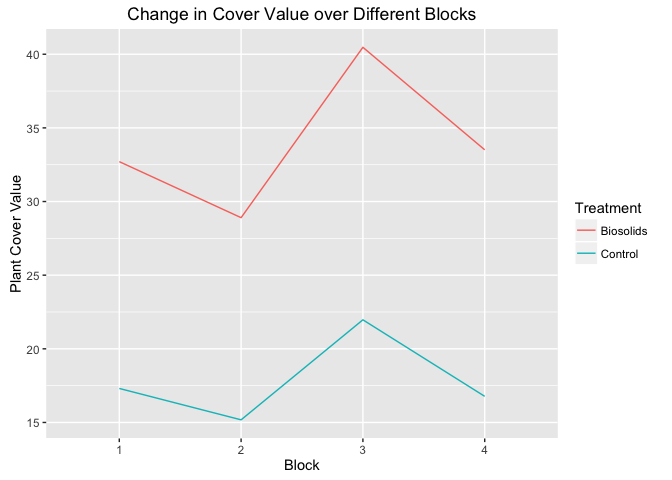
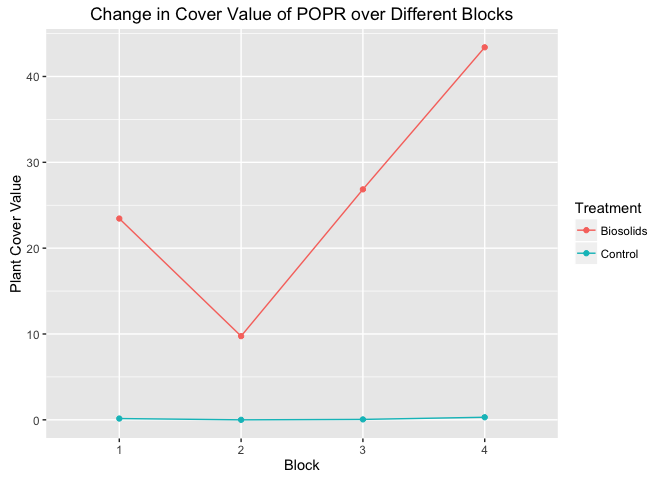
update plots

diff --git a/Report/SecondDraft/SecondDraft.md b/Report/SecondDraft/SecondDraft.md
@@ -2,42 +2,41 @@
 
 This report examines the effectiveness of biosolids, a new kind of
 fertilizer that potentially enhances soil activity by providing food
-source through microbial activities. In particular, we compare the
-change in Mean Weight Diameter (MWD), a parameter measuring soil
-stability, and the change in cover value, a criterion for abundance of
-plant species between observations under biosolids and control. The
-impact of biosolids on soil stability is analyzed by a mixed effect
-model. The effect on abundance of plant species is addressed by linear
-regression. We also calculate the correlation between MWD and cover
-value to examine if they move in the same direction. We find strong
-evidence to support the hypothesis that biosolids significantly
-increases soil productivity and coverage of certain plant species. We
-also find that MWD and cover value are positively correlated.
+sources through microbial activities. In particular, we compare the
+magnitude of Mean Weight Diameter (MWD), a parameter measuring soil
+stability, with and without biosolids application. We also compare the
+magnitude of cover value, a criterion for spread of plant species,
+between observations under biosolids and control. The impact of
+biosolids on soil stability is analyzed by a mixed effect model. The
+effect on spread of plant species is addressed by linear regression. The
+correlation between MWD and cover value is also examined. We find strong
+evidence that biosolids significantly increases soil productivity and
+coverage of certain plant species. We also find that MWD and cover value
+are positively correlated.
 
 #### 1. Introduction
 
-Soil health and productivity is an important issue affecting our daily
-lives and social well-being. Our client, Miss Emma Avery, is completing
-her Master of Soil Science thesis which investigates the long term
-impact of biosolids application on grassland plant communities and soil
-health. Biosolids, the main interest of the experient, is a fertilizer
-of interest that provides food source for microbial activities thus
-enhancing soil productivity. The experiment was established in 2002 at
-OK Ranch, Jasmond, BC when four grasslands were randomly chosen and
-applied either biosolids or control (no biosolids). Later, the data were
-collected in 2016 and we received it in January 2017 for analysis. The
-primary interest is to investigate whether Mean Weight Diameter (MWD), a
+Soil productivity is an important issue affecting agricultural
+activities and biodiversity. Our client, Emma Avery, is completing her
+thesis for Master of Soil Science degree which investigates the long
+term impact of biosolids on soil health and grassland plant communities.
+Biosolids, the main interest of the experiment, is a fertilizer that
+provides food sources for microbial activities to enhance soil
+productivity. The experiment was conducted in 2002 at OK Ranch, Jasmond,
+BC. Four grasslands were randomly chosen and either applied biosolids or
+left as control (no biosolids). Later, the data were collected in 2016
+and passed on to us in January 2017 for analysis. This report’s primary
+interest is to investigate whether Mean Weight Diameter (MWD), a
 parameter that quantifies soil productivity, is affected by 1) treatment
-type and 2) sampling date. The secondary interest is to explore the long
-term effect of biosolids on specific plant species composition. The
-third interest is to examine the correlation between MWD and the cover
-value of plants. The results of this report assess the significance of
-biosolids application on soil productivity and plant composition. It
-potentially impacts the existing fertilizers and introduces a more
-effective kind of new product. Starting with a description of dataset
-and methods,the following report addresses the above questions of
-interests with detailed analysis and ends with conclusions and further
-discussions.
+type and 2) sampling date. The secondary interest is to explore the
+effect of biosolids on specific plant species composition. The third
+interest is to examine the correlation between MWD and the cover value
+of plants. The report assesses the significance of biosolids application
+on soil productivity and plant composition. It indicates that Biosolids
+performs well in terms of enhancing soil stability and increasing spread
+of plant species. Starting with a description of dataset and methods,
+the report addresses the above questions of interests with detailed
+analysis and ends with conclusions and further discussions.
 
 #### 2. Data Description
 
@@ -106,8 +105,8 @@ analysis, we specifically investigate one species, POPR.
 
 Table 2.2 describes the frequencies of cover values appearing under
 biosolids application and control for all species. The bar graphs
-(Figure 2.2 and 2.3) provide a better visualization for the results in
-Table 2.2. We observe that when changing from control group to biosolids
+(Figure 2.2) provide a better visualization for the results in Table
+2.2. We observe that when changing from control group to biosolids
 group, there is a dramatic decrease in number of observations with low
 cover values (\<=37.5), and an increase in number of observations with
 high cover values (\>37.5). For the specific species POPR, Table 2.3
@@ -149,13 +148,8 @@ by treatment groups. The cover values are 2.5, 15, 37.5, 62.5, 85 and
 
 ![](SecondDraft_files/figure-markdown_strict/unnamed-chunk-6-1.png)
 
-Figure 2.2 Bar graph of frequencies in each class of cover value for
-control group.
-
-![](SecondDraft_files/figure-markdown_strict/unnamed-chunk-7-1.png)
-
-Figure 2.3 Bar graph of frequencies in each class of cover value for
-biosolids group.
+Figure 2.2 Overlapped histogram in each class of cover value for all
+species. The cover values are 2.5, 15, 37.5, 62.5, 85 and 97.5.
 
     ## $Biosolids
     ## 
@@ -172,7 +166,7 @@ presented by treatment groups for species POPR. The cover values are
 2.5, 15, 37.5, 62.5, 85 and 97.5. The number under cover value is the
 count in that group.
 
-Figure 2.4 and 2.5 provide visualizations of change and variation in
+Figure 2.3 and 2.4 provide visualizations of change and variation in
 cover values over different blocks under both biosolids and control for
 POPR. Each point represents the mean cover value under a specific
 treatment-block combination. The observed cover value under control
@@ -182,15 +176,15 @@ for biosolids group is different in four blocks. But we do not consider
 any interaction effects involving block, because they are not of
 interest.
 
-![](SecondDraft_files/figure-markdown_strict/unnamed-chunk-9-1.png)
+![](SecondDraft_files/figure-markdown_strict/unnamed-chunk-8-1.png)
 
-Figure 2.4 Comparison of species POPR cover values between control and
+Figure 2.3 Comparison of species POPR cover values between control and
 biosolids group. Cover values in biosolids group are a lot higher than
 those in control group for all the blocks.
 
-![](SecondDraft_files/figure-markdown_strict/unnamed-chunk-10-1.png)
+![](SecondDraft_files/figure-markdown_strict/unnamed-chunk-9-1.png)
 
-Figure 2.5 Boxplots of cover value of species POPR in biosolids and
+Figure 2.4 Boxplots of cover value of species POPR in biosolids and
 control group plotted by the four blocks.
 
 #### 3. Methods
@@ -205,6 +199,8 @@ because the four sampling dates are predetermined by the researchers.
 Block is treated as a random effect, because we use random effect to
 handle the issue of dependencies that arise from the experimental
 design.
+
+There are two complications in the design:
 
 “Repeated measurements” is the case where observations are taken from
 the same subject several times. In our case, MWD is measured in roughly
@@ -268,11 +264,11 @@ sample quantiles from MWD dataset against the theoretical quantiles from
 the standard normal distribution. The fact that most of the points align
 well with the straight line suggests normality.
 
-![](SecondDraft_files/figure-markdown_strict/unnamed-chunk-11-1.png)
+![](SecondDraft_files/figure-markdown_strict/unnamed-chunk-10-1.png)
 
 Figure 4.1 Histogram of MWD.
 
-![](SecondDraft_files/figure-markdown_strict/unnamed-chunk-12-1.png)
+![](SecondDraft_files/figure-markdown_strict/unnamed-chunk-11-1.png)
 
 Figure 4.2 Normal quantile-quantile plot of MWD.
 
@@ -314,7 +310,7 @@ biosolids group, while the mean MWD decreases for control group. This
 corroborates the significance of the interaction effect between
 treatment and date.
 
-![](SecondDraft_files/figure-markdown_strict/unnamed-chunk-13-1.png)
+![](SecondDraft_files/figure-markdown_strict/unnamed-chunk-12-1.png)
 
 Figure 4.3 Change in mean of MWD over the four sampling dates.
 
@@ -338,32 +334,9 @@ We check the following assumptions for linear model:
     experimental unit (half of a block), the observations satisfy the
     independence assumption.
 
-![](SecondDraft_files/figure-markdown_strict/unnamed-chunk-14-1.png)
+![](SecondDraft_files/figure-markdown_strict/unnamed-chunk-13-1.png)
 
 Figure 4.4 Histogram of cover value for species POPR.
-
-    dat.avg$Treatment <- relevel(dat.avg$Treatment, ref = "Control")
-    model_avg <- lm(as.numeric(y.avg) ~ Treatment, data = dat.avg)
-    summary(model_avg)
-
-    ## 
-    ## Call:
-    ## lm(formula = as.numeric(y.avg) ~ Treatment, data = dat.avg)
-    ## 
-    ## Residuals:
-    ##      Min       1Q   Median       3Q      Max 
-    ## -16.1125  -0.6969  -0.0250   0.3781  17.5375 
-    ## 
-    ## Coefficients:
-    ##                    Estimate Std. Error t value Pr(>|t|)   
-    ## (Intercept)           0.125      4.891   0.026  0.98044   
-    ## TreatmentBiosolids   25.738      6.916   3.721  0.00984 **
-    ## ---
-    ## Signif. codes:  0 '***' 0.001 '**' 0.01 '*' 0.05 '.' 0.1 ' ' 1
-    ## 
-    ## Residual standard error: 9.781 on 6 degrees of freedom
-    ## Multiple R-squared:  0.6977, Adjusted R-squared:  0.6473 
-    ## F-statistic: 13.85 on 1 and 6 DF,  p-value: 0.009838
 
 After fitting a regression model with averaged cover value per block as
 response variable and treatment factor as explanatory variable, we
@@ -386,7 +359,7 @@ which is intuitive.
 #### 5. Conclusions & Furthur Discussion
 
 There is strong evidence that biosolids application and sampling dates
-have significant impact on improving soil productivity. They affect MWD
+have significant impact on improving soil stability. They affect MWD
 interactively instead of individually. There is also strong evidence
 that biosolids application increases the spread of species POPR. There
 is a moderate positive correlation between MWD and cover value. In

diff --git a/Rscript/initial_soil_script.md b/Rscript/initial_soil_script.md
@@ -361,17 +361,13 @@ LONG TERM IMPACTS OF BIOSOLIDS ON PLANT COVER
     ##  2.5   15 37.5 62.5   85 97.5 
     ##  676  510  243   94   35    3
 
-    barplot(table_sum$Control, space = 0, ylim = c(0,700),xlab = "Cover Values", ylab = "Frenquency", main = "Counts of Cover Values with Control", col = "mistyrose")
+    ggplot(pc,aes(x=Cover.value,group=Treatment,fill=Treatment))+geom_histogram(position="dodge",binwidth=9)+theme_bw()+labs(title="Histogram of Cover Value for all Species")
 
 ![](initial_soil_script_files/figure-markdown_strict/unnamed-chunk-7-1.png)
 
-    barplot(table_sum$Biosolids, space = 0, ,ylim = c(0,700), xlab = "Cover Values", ylab = "Frenquency", main = "Counts of Cover Values with Biosolids", col = "mistyrose")
-
-![](initial_soil_script_files/figure-markdown_strict/unnamed-chunk-7-2.png)
-
     ggplot(aes(x = Block, y = Cover.value, group = Treatment, colour = Treatment), data = pc)+stat_summary(fun.y="mean", geom = "line")+labs(x = "Block", y = "Plant Cover Value", title = "Change in Cover Value over Different Blocks")
 
-![](initial_soil_script_files/figure-markdown_strict/unnamed-chunk-7-3.png)
+![](initial_soil_script_files/figure-markdown_strict/unnamed-chunk-7-2.png)
 
     # for subset POPR
     pc.subset <- subset(pc, Species == "POPR")
@@ -397,6 +393,10 @@ LONG TERM IMPACTS OF BIOSOLIDS ON PLANT COVER
 
     dat.avg$y.avg <- as.numeric(dat.avg$y.avg)
     ggplot(aes(x = Block, y = y.avg, group = Treatment, colour = Treatment), data = dat.avg) + geom_point() + geom_line() + labs(x = "Block", y = "Plant Cover Value", title = "Change in Cover Value of POPR over Different Blocks")
+
+![](initial_soil_script_files/figure-markdown_strict/unnamed-chunk-7-3.png)
+
+    ggplot(aes(y=y.avg, x=Treatment, fill = Treatment, alpha = 0.4), data=dat.avg) + geom_boxplot() + geom_point()+ labs(y = "POPR Cover Value", title = "Boxplot of POPR Cover Value")
 
 ![](initial_soil_script_files/figure-markdown_strict/unnamed-chunk-7-4.png)
 
